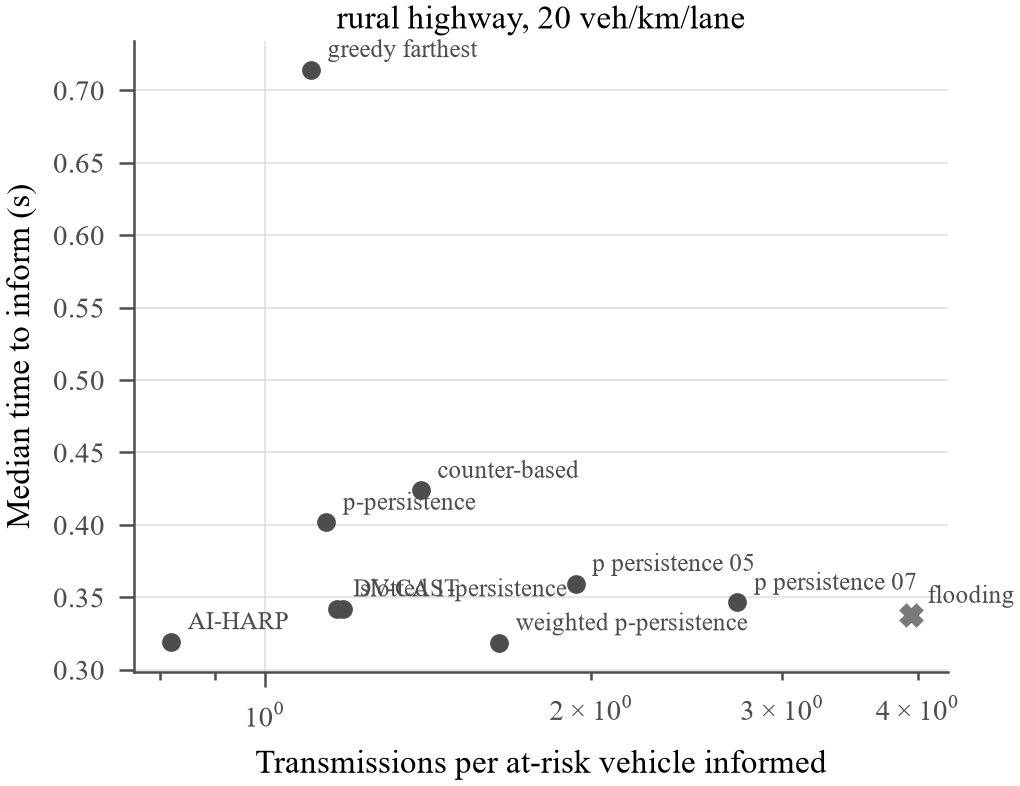
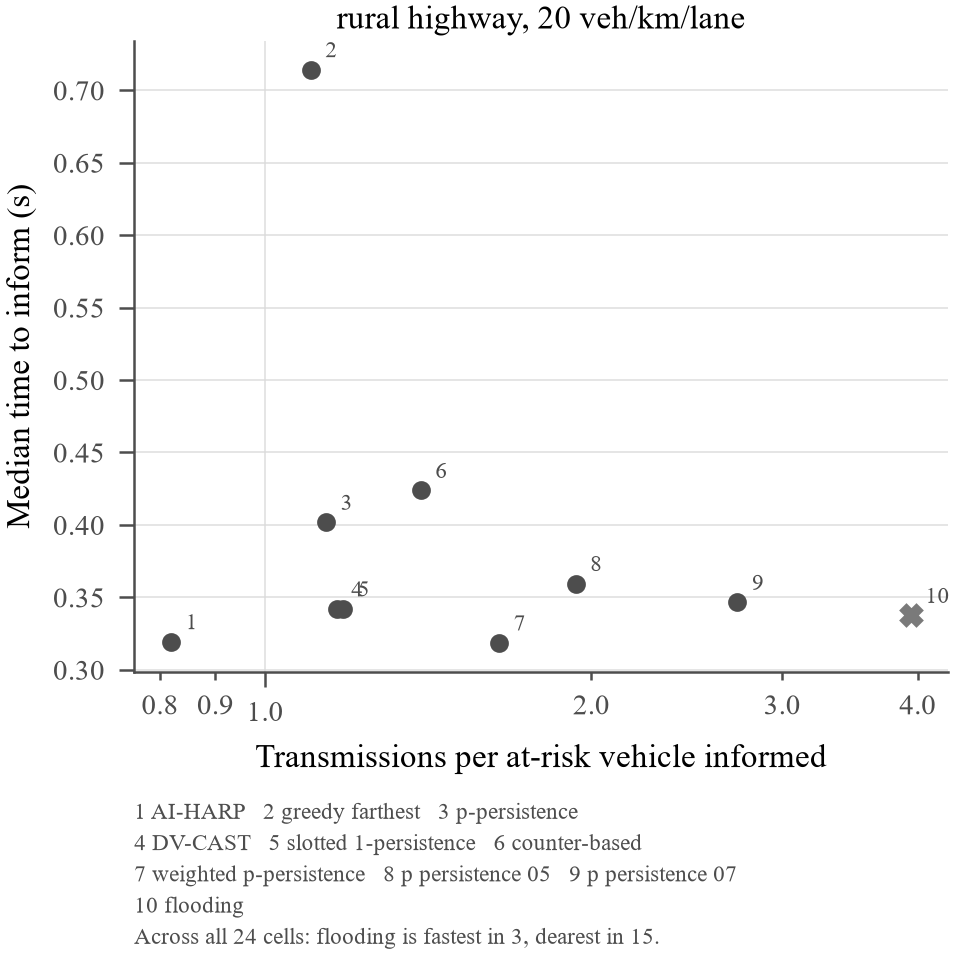
Figure 9 says what was measured: flooding is dominated, not trading off
The brief describes this figure as the latency/overhead inversion, flooding
being oracle-best on latency and worst on cost. The first half does not hold.
Counted over all 24 cells of runs.csv:

  flooding is fastest (min median TIR) in     3 / 24 cells
  flooding is dearest (max tx/informed) in   15 / 24 cells
  usually fastest instead: p_persistence_03 (9), ai_harp (8)

So flooding mostly pays the most without buying the best latency: it is
dominated rather than trading one axis for the other. That strengthens the
"versus flooding is dead" argument the README already makes, but the inversion
framing had to go. The figure now carries the across-cell counts, so a single
cell is not left to imply a general claim, and the README row states it.

Readability, after three attempts: one label offset, then four rotated
offsets, both still collided -- in the headline cell four schemes sit within
0.02 s of each other. Points are keyed by number with an index beneath the
axes. The log x axis also showed "2 x 10^0" for a 0.8-4 range; ScalarFormatter.

diff --git a/analysis/figures.py b/analysis/figures.py
@@ -324,33 +324,59 @@ def fig_estimation_agreement(
 # ---------------------------------------------------------------------------
 def fig_latency_cost_inversion(
     df, scenario: str, density: float, width: float = SINGLE_COL,
-    name: str = "fig09_latency_cost_inversion",
+    name: str = "fig09_latency_cost_inversion", note: str | None = None,
 ) -> list[Path]:
     """Cost against latency for every scheme in one cell.
 
-    Flooding buys the best latency with the worst overhead and the suppression
-    schemes do the reverse, which is why neither axis alone ranks them. Nine
-    schemes exceed the four validated colour slots, so the points are neutral
-    and labelled directly rather than cycling the palette.
+    The expected story was an inversion -- flooding buying the best latency
+    with the worst overhead, the suppression schemes doing the reverse. The
+    measurement does not support the first half: flooding is the most
+    expensive scheme in most cells but is rarely the fastest, so it is
+    dominated rather than trading off. ``note`` carries the across-cell counts
+    so the figure states that instead of leaving one cell to imply it.
+
+    Nine schemes exceed the four validated colour slots, so points are neutral
+    ink with direct labels rather than a cycled palette.
     """
     import matplotlib.pyplot as plt
+    from matplotlib.ticker import ScalarFormatter
 
     apply_ieee_style()
     fig, ax = plt.subplots(figsize=(width, width * 0.78))
     sub = df[(df["scenario"] == scenario) & (df["density_veh_km_lane"] == density)]
+
+    points = []
     for pol, g in sub.groupby("policy"):
         x, y = float(g["tx_per_at_risk_informed"].mean()), float(g["tir_median_s"].mean())
-        if not (np.isfinite(x) and np.isfinite(y)):
-            continue
+        if np.isfinite(x) and np.isfinite(y):
+            points.append((x, y, str(pol)))
+    points.sort()
+
+    # Points are keyed by number and named in an index below the axes. Direct
+    # labels were tried first and cannot work here: in the headline cell four
+    # schemes sit within 0.02 s of each other, so their names printed on top of
+    # one another however the offsets were rotated.
+    for i, (x, y, pol) in enumerate(points):
         st = reference_style() if pol == REFERENCE_POLICY else {
             "color": GREY, "marker": "o", "linestyle": "none", "markersize": 3.5}
         ax.plot([x], [y], **st)
-        ax.annotate(label_for(pol).replace(" (reference)", ""), (x, y),
-                    textcoords="offset points", xytext=(4, 3), fontsize=6, color=GREY)
+        ax.annotate(str(i + 1), (x, y), textcoords="offset points",
+                    xytext=(3.5, 3), fontsize=5.5, color=GREY)
+
     ax.set_xscale("log")
+    ax.get_xaxis().set_major_formatter(ScalarFormatter())   # not 2 x 10^0
+    ax.get_xaxis().set_minor_formatter(ScalarFormatter())
     ax.set_xlabel("Transmissions per at-risk vehicle informed")
     ax.set_ylabel("Median time to inform (s)")
     ax.set_title(f"{scenario.replace('_', ' ')}, {density:g} veh/km/lane", pad=3)
+    entries = [f"{i + 1} {label_for(p).replace(' (reference)', '')}"
+               for i, (_, _, p) in enumerate(points)]
+    per_line = 3
+    index = "\n".join("   ".join(entries[i:i + per_line])
+                      for i in range(0, len(entries), per_line))
+    caption = index + (f"\n{note}" if note else "")
+    ax.annotate(caption, xy=(0.0, -0.20), xycoords="axes fraction", ha="left",
+                va="top", fontsize=5.5, color=GREY, linespacing=1.5)
     return save(fig, name)
 
 

diff --git a/analysis/report.py b/analysis/report.py
@@ -234,6 +234,26 @@ def _ablation_rows(mode: str = "sampled", axis: str = "cost") -> list[dict[str, 
     return rows
 
 
+def _flooding_note(df) -> str:
+    """How often flooding is fastest, and how often it is dearest.
+
+    One cell cannot carry a general claim, and the general claim here is not
+    the expected one: flooding pays the most in most cells without buying the
+    best latency, so it is dominated rather than trading latency for overhead.
+    """
+    agent_at_gate = (df["policy"] != "ai_harp") | (df["tau"] == 0.5)
+    cells = (df[agent_at_gate]
+             .groupby(["scenario", "density_veh_km_lane", "policy"])
+             [["tir_median_s", "tx_per_at_risk_informed"]].mean().reset_index())
+    by_cell = cells.groupby(["scenario", "density_veh_km_lane"])
+    fastest = cells.loc[by_cell["tir_median_s"].idxmin()]["policy"]
+    dearest = cells.loc[by_cell["tx_per_at_risk_informed"].idxmax()]["policy"]
+    n = int(by_cell.ngroups)
+    return (f"Across all {n} cells: flooding is fastest in "
+            f"{int((fastest == 'flooding').sum())}, dearest in "
+            f"{int((dearest == 'flooding').sum())}.")
+
+
 def _fig_weather(F, df, scenario: str, name: str) -> None:
     """RWCR by weather -- traffic-mediated, and the caption says so."""
     import matplotlib.pyplot as plt
@@ -387,7 +407,8 @@ def build_all(skip_agent: bool = False) -> dict[str, list[str]]:
         has_headline = bool(((df["scenario"] == head_scenario)
                              & (df["density_veh_km_lane"] == head_density)).any())
         if has_headline:
-            F.fig_latency_cost_inversion(df, head_scenario, head_density)
+            F.fig_latency_cost_inversion(df, head_scenario, head_density,
+                                         note=_flooding_note(df))
             made["figures"].append("fig09_latency_cost_inversion")
         else:
             made["skipped"].append("fig09 latency/cost inversion: headline cell absent")

diff --git a/README.md b/README.md
@@ -1024,7 +1024,7 @@ yet earned, the row says so rather than being omitted.
 | The sparse constraint is **not** limited by the multiplier cap — see the correction below | `fig06`, `checkpoints/campaign/ref/history.jsonl`, `results/feasibility/` |
 | Attention is not sharply selecting a relay: the top-ranked neighbour takes 0.172 of a decision's attention mass where uniform over 12 neighbours is 0.083 | `fig07`, `results/attention_event.json` |
 | The GATv2 architecture is not what earns the result — GCN and MLP encoders match or beat it | `fig08`, `results/tables/table_ablation.tex`, `results/agent_<variant>/` |
-| Flooding is oracle-best on latency and worst on cost, so neither axis alone ranks the schemes | `fig09`, `results/runs.csv` |
+| Flooding is dominated, not a latency/overhead trade: it is dearest in 15 of 24 cells but fastest in only 3 (the fastest is usually `p_persistence_03`, 9 of 24, or the agent, 8 of 24) | `fig09`, `results/runs.csv` |
 | The simulator reproduces a published curve to a mean absolute PDR deviation of 0.0398 | `fig10`, `results/validation/amador2022.json`, `experiments/validate_amador.py` |
 | Per-cell comparisons, not pooled ones, are what 10 paired seeds can support | `analysis/grid_stats.py` (a family of 26 tests is unrejectable at 10 seeds: 0.00195 × 26 > 0.05) |
 | **Pending** — the no-relevance and long-wait ablations, which test the paper's premises directly | training in progress; `checkpoints/campaign/{no_relevance,long_wait}/` |
